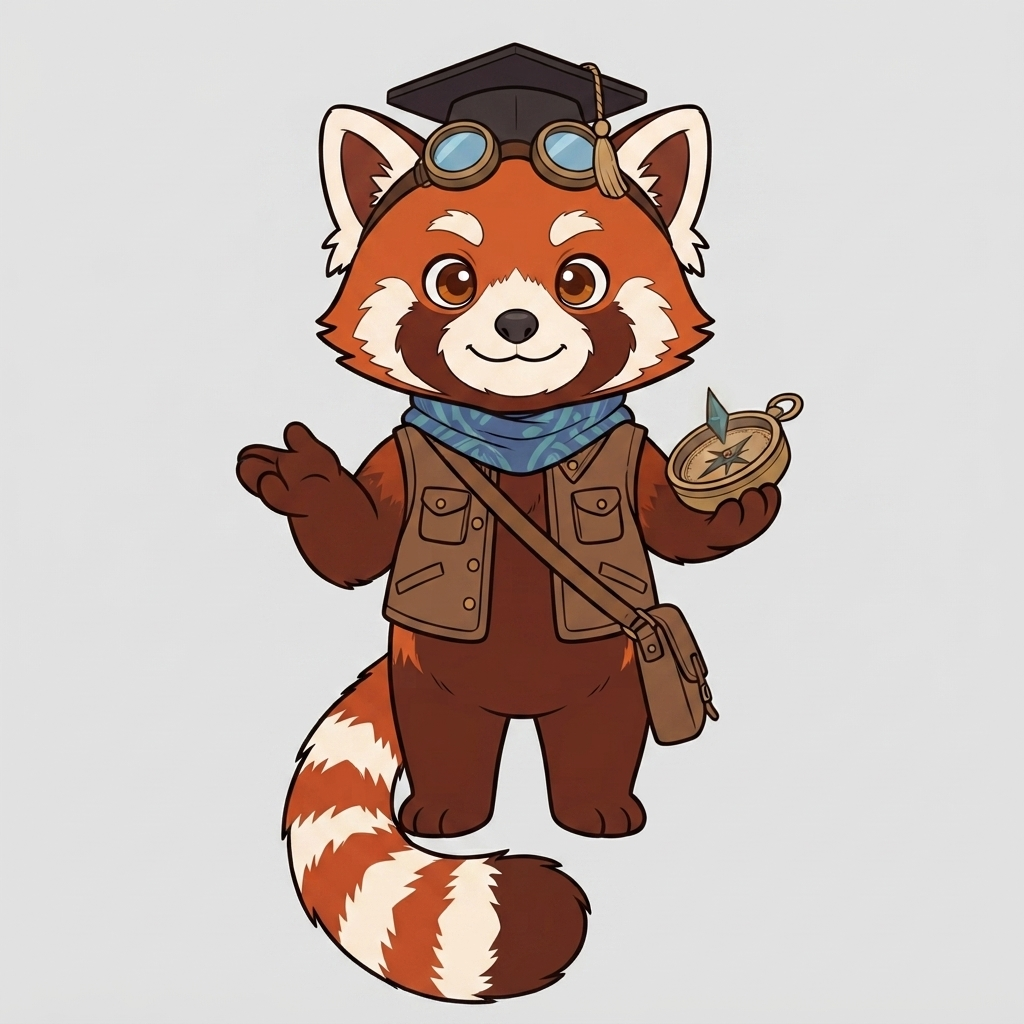
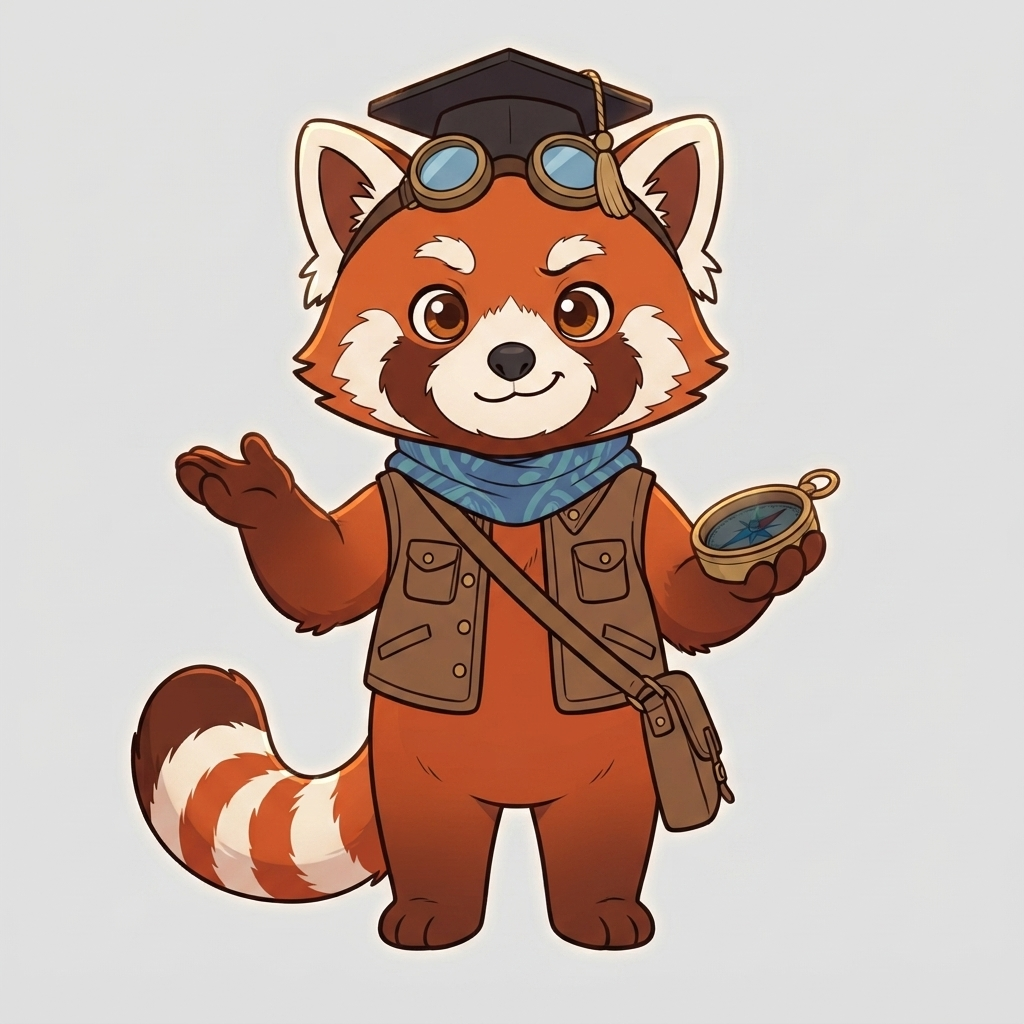
표정 2판 후보1 정본 채택 · 재확인 시트 · char_len 을 공백 포함 원문 길이로 못 박음

diff --git a/docs/캐릭터/비교_결과.md b/docs/캐릭터/비교_결과.md
@@ -67,3 +67,29 @@
 
 - **글쓰기를 좋아하지 않는 아이(C)가 신규를 가장 많이 골랐다**(3표 중 2표). 이 제품이 겨냥하는 아이다.
 - C의 응답은 셋 다 한 줄이다. 짧은 것이 성의 없는 것이 아니라 **그 아이의 기본 출력 길이**다 — 제품이 150자를 기대하는 상대가 이 아이라는 사실을 기억한다.
+
+---
+
+## 2판 판정 (2026-09-07)
+
+**후보 1 네 장을 정본으로 채택했다** — `docs/캐릭터/표정/` 반영 완료. 생성본은 `api/out/character/`(2판) · `api/out/character_1차/`(1판).
+
+백엔드가 **레퍼런스를 둘로** 넣어 되돌렸다 — ① 정본 정면(장비·색) ② **기존 그림의 머리만 잘라낸 것**(얼굴·털). 통째로 넣으면 서재 배경이 딸려 온다. **문구로 안 막히는 것은 레퍼런스에서 없앤다**가 1판에서 얻은 규칙이다. 1판의 실제 결함도 눈으로 확인됐다 — **몸통이 탁한 갈색이라 머리와 색이 갈렸다.** 아이들이 「털이 부드러워 보인다」를 기존에서만 말한 이유가 거기 있었다.
+
+**후보 1 을 고른 이유 셋** (후보 2 와 나란히 놓고 판정)
+
+| | |
+|---|---|
+| **`default` 의 나침반이 조용하다** | 결정적이다. 후보 2 는 `default` 에서 가슴의 나침반이 이미 시안으로 빛나, **「조용할 때」가 빛나 보인다.** 그러면 `compass_bright` 와의 차이가 「더 빛남」이 되고, 입력 중 커지는 화면 빛(프론트 SVG)과도 뜻이 겹친다 |
+| **상태가 가장 크게 갈린다** | 픽셀 평균 차이 — 후보 1 은 `default↔bright` **36.3** · `default↔dim` **24.3**. 후보 2 는 29.9 · 22.6. 기존 2.6 · 1판 15.2 |
+| **배경이 4장 모두 같다** | 후보 2 의 `default` 에는 바닥 그림자가 있어 나머지 셋과 어긋난다 |
+
+**`compass_bright` 의 빛 번짐 — 후보 1 로 간다.** 실측하면 테두리 12px 안에서 시안 기미가 도는 픽셀이 **391 / 48,576 (0.8%)**, 그것도 한쪽 가장자리다. 이 그림들은 어차피 **알파 없는 회색 사각형**으로 화면에 얹히므로, 사각형 자체가 이미 보이는 상황에서 한쪽 모서리의 옅은 기미는 새로 생기는 문제가 아니다. 반면 **빛의 세기는 아이 둘이 기존을 고른 실제 이유**였다("빛이 엄청 세게 나오는 게 능력을 쓰는 것 같아서"). 근거가 있는 쪽을 택한다.
+**W3 에서 삽화 위에 얹을 때(A0-3) 배경 처리 방식이 정해지면 다시 본다.**
+
+## 다음 — 같은 아이 4명에게 한 쌍만 더
+
+`비교_아동용_재확인.png` 를 만들었다. **1번이 2판, 2번이 기존**이다 — **지난번과 좌우를 뒤집었다.** 같은 자리에 새것을 두면 아이가 위치를 기억한다.
+
+물을 것은 하나다: **"배경 말고, 이 친구만 봐. 누가 더 마음에 들어?" → "왜?"**
+**얼굴·털을 근거로 든 표가 2판으로 넘어오면 되돌리기가 통한 것이다.** 지난번엔 그 축이 4:0 으로 기존이었다.
